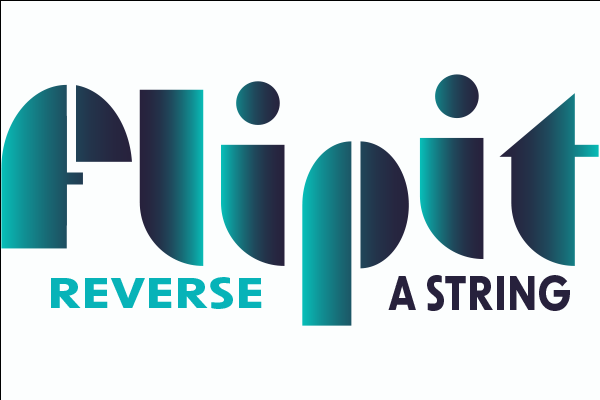
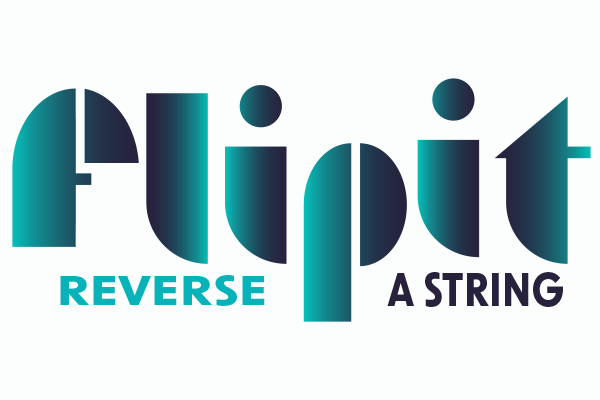
update flipit thumbnail and added redd lyon financial project to portfolio

diff --git a/index.html b/index.html
@@ -375,25 +375,22 @@
                         <!-- Portfolio Item Ends -->
                         <!-- Portfolio Item Starts -->
                         <div class="grid__item col-12 col-md-6 col-lg-4" data-size="600x400">
-                            <a class="d-block" href="https://via.placeholder.com/600x400.jpg" data-title=""
-                                data-category="">
+                            <a class="d-block" href="img/redd-lyon-thumbnail.png" data-title="" data-category="">
                                 <!-- ¨Project Main Image Starts -->
-                                <img class="img-fluid" src="https://via.placeholder.com/600x400.jpg" alt="halloween" />
+                                <img class="img-fluid" src="img/redd-lyon-thumbnail.png"
+                                    alt="redd lyon financial thumbnail" />
                                 <!-- ¨Project Main Image Ends -->
                                 <!-- ¨Project Details Starts -->
                                 <div class="description description--grid">
-                                    <h3>halloween</h3>
+                                    <h3>Redd Lyon Financial</h3>
                                     <div class="details">
                                         <p>
-                                            <span>Lorem ipsum dolor sit amet consectetur adipisicing
-                                                elit. Praesentium blanditiis commodi dicta itaque
-                                                laborum, perferendis temporibus, velit, ipsam possimus
-                                                nam maiores ullam at inventore eaque quaerat accusamus
-                                                tempora corrupti! Incidunt.</span>
+                                            <span>Redd Lyon Financial is an application that uses javascript to generate
+                                                an amortization schedule for a simple interest loan.</span>
                                         </p>
                                         <!-- Project Preview Desktop Link Starts -->
                                         <span class="btn main-btn d-none d-md-inline-block"
-                                            onclick="window.open('https://preview_of_project.com')">
+                                            onclick="window.open('https://antwauncodes-reddlyonfinancial.netlify.app/')">
                                             <span>preview</span>
                                         </span>
                                         <!-- Project Preview Desktop Link Ends -->
